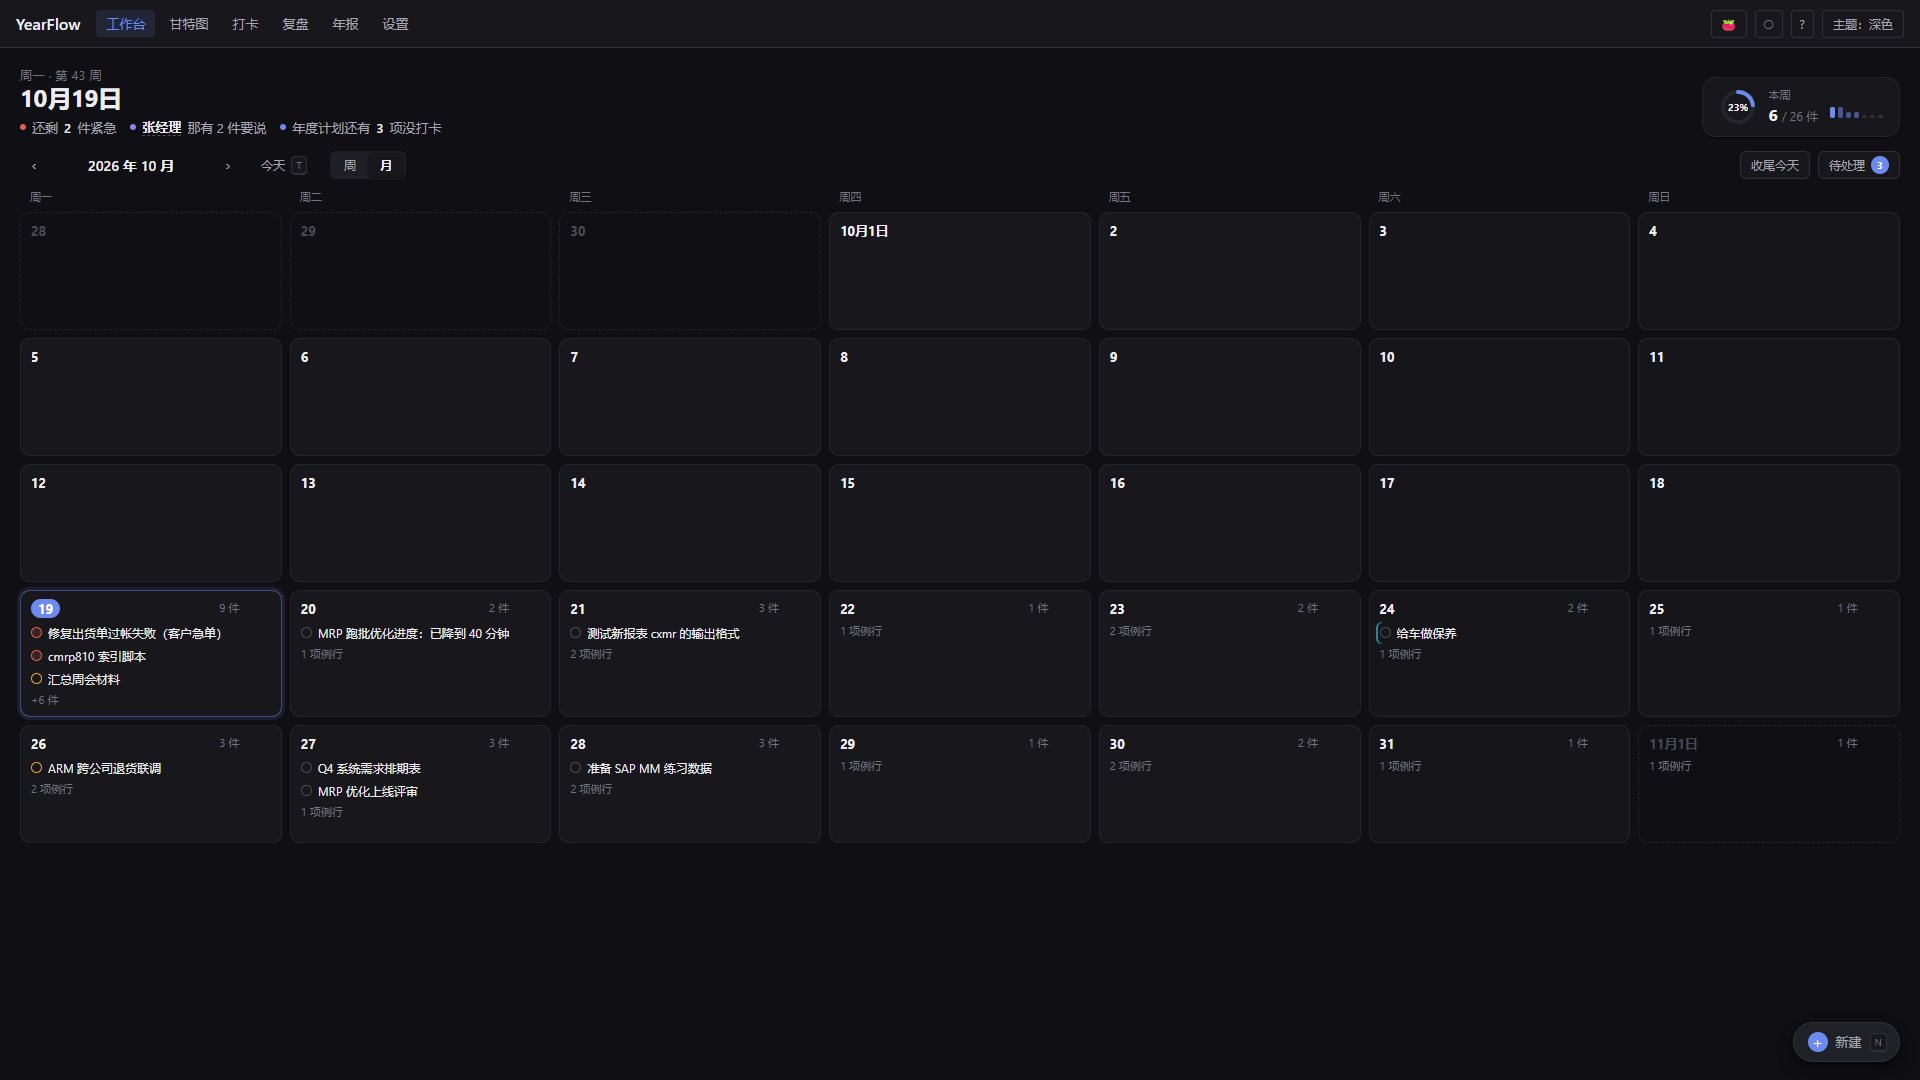
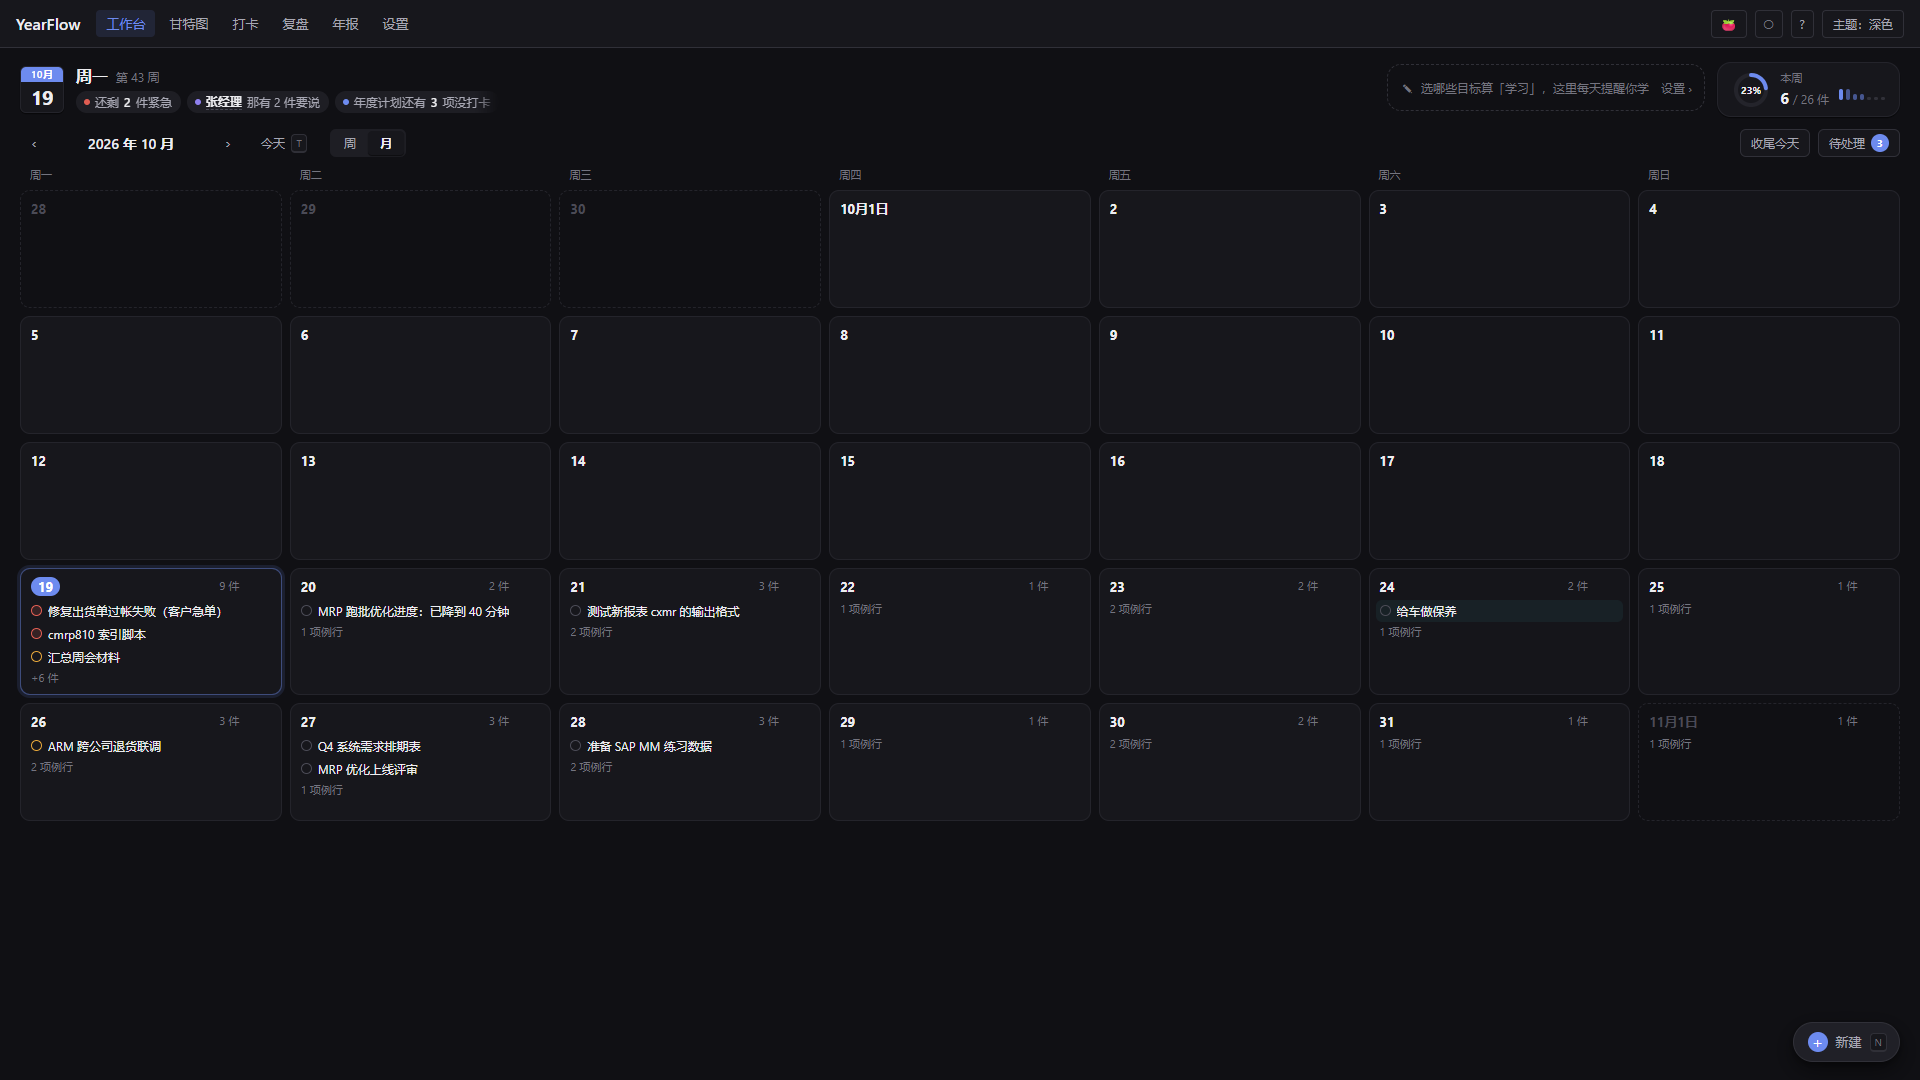
feat: 工作台要事可拖动设置——拖进要事区设为那天要事，拖回工作/生活区移出
- withFocus（纯函数 + 单测）与挪动/改范围合成一条撤销；守每天 3 件上限，满了提示
- 今天及以后每天都有要事区，空的拖动中才露出来；拖动提示带「要事」
- check-desk-v3 新增 9 项拖动断言

diff --git a/src/desk/useDeskDrag.ts b/src/desk/useDeskDrag.ts
@@ -1,6 +1,7 @@
 /**
  * 工作台拖拽：任意一行按住拖 3px 起拖 → 右下角浮出「挪到…」小月历；
- * 落点 = 日卡 / 日卡里的工作区或生活区（顺带改范围）/ 月历格（今天及以后）/ 小月历某天 / 「放进待处理」。
+ * 落点 = 日卡 / 日卡里的要事区（顺带设为那天要事）/ 工作区或生活区（顺带改范围，要事拖到这里 = 移出要事）/
+ * 月历格（今天及以后）/ 小月历某天 / 「放进待处理」。
  * 多选时拖任意一行带走全部选中。
  *
  * 性能约定（CLAUDE.md：拖拽中只改 transform）：拖动中**不触发 React 重绘** ——
@@ -10,7 +11,9 @@
 import { useEffect, type RefObject } from 'react';
 import { moveKeys } from '../store/deskActions';
 import { DRAG_THRESHOLD } from './constants';
-import { md, relDay, toastMove } from './format';
+import { md, relDay, toastMove, toastUndo } from './format';
+import { showToast } from '../lib/toast';
+import { MAX_FOCUS } from '../lib/derive/desk';
 import { parseKeys } from './keys';
 import { useDeskUi } from './uiStore';
 import type { WorkScope } from '../types/domain';
@@ -26,6 +29,8 @@ interface DragState {
   target?: string | null;
   /** 落在某天的工作/生活区里：顺带改范围 */
   scope?: WorkScope;
+  /** 落在要事区 = true；落在工作/生活区 = false（要事拖出来 = 移出要事） */
+  focus?: boolean;
   lastHot?: Element | null;
 }
 
@@ -55,9 +60,11 @@ export function useDeskDrag(rootRef: RefObject<HTMLDivElement | null>, today: st
       setTimeout(() => (swallowClick = false), 0);
       useDeskUi.getState().set({ dragging: false, mover: null });
       if (!apply || d.target === undefined) return;
-      const r = moveKeys(parseKeys(d.keys), d.target, d.target === null ? undefined : d.scope);
+      const r = moveKeys(parseKeys(d.keys), d.target, d.target === null ? undefined : d.scope, d.target === null ? undefined : d.focus);
       useDeskUi.getState().set({ sel: new Set() });
-      toastMove(d.target, today, r);
+      if (r.label) toastUndo(r.label);
+      else if (r.moved || !r.over) toastMove(d.target, today, r);
+      if (r.over) setTimeout(() => showToast(`每天最多 ${MAX_FOCUS} 件要事，有 ${r.over} 件没设上——先移出一件`), r.moved ? 400 : 0);
     };
 
     const onDown = (e: PointerEvent) => {
@@ -96,17 +103,23 @@ export function useDeskDrag(rootRef: RefObject<HTMLDivElement | null>, today: st
       const hit =
         el?.closest('[data-mv]') ??
         el?.closest('[data-mv-pending]') ??
+        el?.closest('.dk-focus[data-day]') ??
         el?.closest('.dk-zone[data-zone]') ??
         el?.closest('.dk-day[data-day], .dk-mc[data-day]') ??
         null;
       let target: string | null | undefined;
       let scope: WorkScope | undefined;
+      let focus: boolean | undefined;
       if (hit?.hasAttribute('data-mv')) target = hit.getAttribute('data-mv');
       else if (hit?.hasAttribute('data-mv-pending')) target = null;
       else if (hit) {
         const day = hit.getAttribute('data-day')!;
         target = day >= today ? day : undefined; // 过去的日子不能落
-        if (target !== undefined && hit.hasAttribute('data-zone')) scope = hit.getAttribute('data-zone') as WorkScope;
+        if (target !== undefined && hit.hasAttribute('data-zone')) {
+          scope = hit.getAttribute('data-zone') as WorkScope;
+          focus = false;
+        }
+        if (target !== undefined && hit.classList.contains('dk-focus')) focus = true;
       }
       const hot = target === undefined ? null : hit;
       if (hot !== drag.lastHot) {
@@ -116,10 +129,11 @@ export function useDeskDrag(rootRef: RefObject<HTMLDivElement | null>, today: st
       }
       drag.target = target;
       drag.scope = scope;
+      drag.focus = focus;
       const tip = document.querySelector('[data-mv-tip]');
       if (tip)
         tip.textContent =
-          target === undefined ? ' ' : target === null ? '→ 放进待处理' : `→ ${relDay(target, today)} · ${md(target)}${scope ? ` · ${scope === 'life' ? '生活' : '工作'}` : ''}`;
+          target === undefined ? ' ' : target === null ? '→ 放进待处理' : `→ ${relDay(target, today)} · ${md(target)}${focus ? ' · 要事' : scope ? ` · ${scope === 'life' ? '生活' : '工作'}` : ''}`;
     };
 
     const onUp = () => {

diff --git a/src/store/deskActions.ts b/src/store/deskActions.ts
@@ -19,6 +19,7 @@ import {
   planSkipOccurrence,
   planToggleItem,
   planToggleOccurrence,
+  withFocus,
   withScope,
   type DeskKey,
 } from './deskPlan';
@@ -194,7 +195,13 @@ export function markPersonSaid(person: string): void {
  * 一次挪动 = 一条撤销记录。返回 pastDue（挪到截止日之后的件数，UI 提示用）与实际挪动数。
  * scope = 拖到了某天的工作/生活区：顺带改范围（同一天换区 = 只改范围，moved 也算上）。
  */
-export function moveKeys(keys: DeskKey[], to: MoveHow | string | null, scope?: WorkScope): { moved: number; pastDue: number } {
+export function moveKeys(
+  keys: DeskKey[],
+  to: MoveHow | string | null,
+  scope?: WorkScope,
+  /** 拖进某天的要事区 = true（设为那天要事）；拖到工作/生活区 = false（移出要事）；其他落点不传 */
+  focus?: boolean,
+): { moved: number; pastDue: number; over: number; label?: string } {
   const s = useStore.getState();
   const today = todayStr();
   const isHow = to === 'tomorrow' || to === 'nextMonday' || to === 'sameDayNextWeek';
@@ -206,15 +213,28 @@ export function moveKeys(keys: DeskKey[], to: MoveHow | string | null, scope?: W
   const stamp = nowIso();
   const planned = planMove(s, keys, target, stamp);
   const { pastDue } = planned;
-  const changes = scope ? withScope(s, keys, planned.changes, scope, stamp) : planned.changes;
+  let changes = scope ? withScope(s, keys, planned.changes, scope, stamp) : planned.changes;
+  let over = 0;
+  if (focus !== undefined && to !== null && !isHow) {
+    const r = withFocus(s, keys, changes, focus ? to : null, stamp);
+    changes = r.changes;
+    over = r.over;
+    const newly = changes.filter((c) => c.table === 'workItems' && c.type === 'put' && c.after.focusOn === to && c.before?.focusOn !== to).length;
+    if (focus && newly) {
+      const label = planned.moved ? `挪到 ${to.slice(5).replace('-', '/')} 并设为要事：${newly} 件` : `设为要事：${newly} 件`;
+      s.execute(label, changes);
+      return { moved: changes.length, pastDue, over, label };
+    }
+  }
   const moved = changes.length;
-  if (scope && planned.moved === 0 && changes.length > 0) {
-    s.execute(`改为${scope === 'life' ? '生活' : '工作'}：${changes.length} 件`, changes);
-    return { moved: changes.length, pastDue: 0 };
+  if (planned.moved === 0 && changes.length > 0 && (scope || focus === false)) {
+    const label = scope && changes.some((c) => c.type === 'put' && c.table === 'workItems' && c.before?.scope !== c.after.scope) ? `改为${scope === 'life' ? '生活' : '工作'}：${changes.length} 件` : `移出要事：${changes.length} 件`;
+    s.execute(label, changes);
+    return { moved: changes.length, pastDue: 0, over, label };
   }
   const label = to === null ? `放进待处理：${moved} 件` : isHow ? `${{ tomorrow: '挪到明天', nextMonday: '挪到下周一', sameDayNextWeek: '挪到下周同一天' }[to]}：${moved} 件` : `挪到 ${to.slice(5).replace('-', '/')}：${moved} 件`;
   if (changes.length) s.execute(label, changes);
-  return { moved, pastDue };
+  return { moved, pastDue, over };
 }
 
 // ── 例行 ─────────────────────────────────────────────────────────────────

diff --git a/src/store/deskPlan.ts b/src/store/deskPlan.ts
@@ -130,6 +130,38 @@ export function withScope(s: DeskState, keys: DeskKey[], changes: Change[], scop
   return out;
 }
 
+/**
+ * 在挪动（及改范围）的基础上顺带设 / 移出要事：拖进某天的要事区 = 挪到那天 + 设为那天的要事；
+ * 把要事拖到工作/生活区 = 移出要事。只认事项（例行不能当要事）；设上时守每天 MAX_FOCUS 的上限，
+ * 被拖的这几件原本就是那天要事的不重复占位。返回合并后的变更与没设上的件数。
+ */
+export function withFocus(s: DeskState, keys: DeskKey[], changes: Change[], date: string | null, stamp: string): { changes: Change[]; over: number } {
+  const out = [...changes];
+  const ids = keys.flatMap((k) => (k.type === 'item' && s.workItems[k.id] ? [k.id] : []));
+  const dragged = new Set(ids);
+  let room = date ? MAX_FOCUS - Object.values(s.workItems).filter((i) => !dragged.has(i.id) && isFocusOn(i, date)).length : 0;
+  let over = 0;
+  for (const id of ids) {
+    const at = out.findIndex((c) => c.table === 'workItems' && c.type === 'put' && c.after.id === id);
+    const c = out[at];
+    const cur = c && c.table === 'workItems' && c.type === 'put' ? c.after : s.workItems[id];
+    let focusOn: string | undefined;
+    if (date) {
+      if (room <= 0) {
+        over++;
+        continue;
+      }
+      room--;
+      if (cur.focusOn === date) continue;
+      focusOn = date;
+    } else if (!cur.focusOn) continue;
+    const next: WorkItem = { ...cur, focusOn, updatedAt: stamp };
+    if (c && c.table === 'workItems' && c.type === 'put') out[at] = { ...c, after: next };
+    else out.push({ table: 'workItems', type: 'put', before: s.workItems[id], after: next });
+  }
+  return { changes: out, over };
+}
+
 /** 某人的未完成跟进全部标为已说（人物卡「全部标为已说」） */
 export function planMarkPersonSaid(s: DeskState, person: string, stamp: string): Change[] {
   const ids = Object.values(s.workItems)

diff --git a/src/store/deskPlan.test.ts b/src/store/deskPlan.test.ts
@@ -11,6 +11,7 @@ import {
   planToggleItem,
   planToggleOccurrence,
   planSetFocus,
+  withFocus,
   withScope,
 } from './deskPlan';
 import { invertChange, type Change } from './types';
@@ -212,5 +213,22 @@ describe('v3：要事上限、拖进另一区改范围', () => {
     expect(out).toHaveLength(2);
     expect(after(out[0])).toMatchObject({ id: 'a', date: '2026-10-19', scope: 'life' });
     expect(after(out[1])).toMatchObject({ id: 'c', date: D, scope: 'life' });
+  });
+
+  it('拖进要事区：挪动 + 设要事合成一条；守每天上限；拖出 = 移出要事；例行不管', () => {
+    const N = '2026-10-19';
+    const s = state({ items: [wi('a', { date: D }), wi('b', { date: N }), wi('f1', { date: N, focusOn: N }), wi('f2', { date: N, focusOn: N }), wi('x', { date: D })] });
+    const keys = [{ type: 'item' as const, id: 'a' }, { type: 'item' as const, id: 'b' }, { type: 'routine' as const, routineId: 'r', origDate: D }];
+    const moved = planMove(s, [keys[0]], () => N, NOW).changes;
+    const r = withFocus(s, keys, moved, N, NOW);
+    expect(r.over).toBe(1); // 那天已有 2 件，只剩 1 个位子
+    expect(r.changes).toHaveLength(1);
+    expect(after(r.changes[0])).toMatchObject({ id: 'a', date: N, focusOn: N });
+    // 已是那天要事的在那天要事区里拖动：不占第二个位子、没有变更
+    expect(withFocus(s, [{ type: 'item', id: 'f1' }], [], N, NOW)).toEqual({ changes: [], over: 0 });
+    // 拖出要事区：移出；本来就不是要事的不动
+    const out = withFocus(s, [{ type: 'item', id: 'f1' }, { type: 'item', id: 'x' }], [], null, NOW);
+    expect(out.changes).toHaveLength(1);
+    expect(after(out.changes[0])).toMatchObject({ id: 'f1', focusOn: undefined });
   });
 });

diff --git a/src/desk/DayCard.tsx b/src/desk/DayCard.tsx
@@ -149,8 +149,9 @@ export function DayCard({ data, today, plan, planHidden, rail }: { data: DayData
         </div>
       </div>
       <div className="dk-db">
-        {(focus.length > 0 || canPickFocus) && (
-          <div className="dk-focus" data-zone-focus={date}>
+        {/* 今天及以后每天都有要事区（空的平时藏着，拖动中露出来当落点：拖进来 = 设为那天要事） */}
+        {(focus.length > 0 || canPickFocus || !past) && (
+          <div className={`dk-focus${focus.length > 0 || canPickFocus ? '' : ' empty'}`} data-zone-focus={date} data-day={past ? undefined : date}>
             <div className="dk-focus-h">
               <span>要事</span>
               {focus.length > 0 && (
@@ -172,6 +173,7 @@ export function DayCard({ data, today, plan, planHidden, rail }: { data: DayData
                   {focus.length ? '再挑' : `挑今天最要紧的 ${MAX_FOCUS} 件`}
                 </button>
               )}
+              {focus.length === 0 && <span className="dk-focus-hint">拖到这里设为要事</span>}
             </div>
             {focus.map((i) => (
               <ItemRow key={i.id} item={i} today={today} rolled={i.date !== date} inFocus compact={past} />

diff --git a/src/desk/desk.css b/src/desk/desk.css
@@ -1944,6 +1944,29 @@
   color: var(--accent);
   background: var(--accent-soft);
 }
+.dk-focus.empty {
+  display: none;
+}
+.dk-focus-hint {
+  display: none;
+  font-weight: 400;
+  color: var(--text-tertiary);
+}
+/* 拖动中：空的要事区也露出来当落点；有位子的要事区底下留一条落点空隙 */
+.dk.dragging .dk-day:not(.past) .dk-focus.empty {
+  display: block;
+  padding-bottom: 6px;
+}
+.dk.dragging .dk-focus-pick {
+  display: none;
+}
+.dk.dragging .dk-focus-hint {
+  display: inline;
+}
+.dk-focus.drop {
+  background: color-mix(in srgb, var(--accent) 12%, transparent);
+  box-shadow: inset 0 0 0 1px var(--accent);
+}
 .dk-focus .dk-row .dk-t {
   font-size: var(--font-14);
   font-weight: 550;

diff --git a/docs/DESK_SPEC.md b/docs/DESK_SPEC.md
@@ -8,6 +8,7 @@
 > **v3 拍板（2026-10-19，负责人反馈一轮）**：日卡自上而下 = 要事 → 学习（精简两行）→ 工作区 → 生活区 → 年度计划（底部、可收起、可选显示哪些）· 工作/生活用**非文字**区分（生活区 = 青色左条 + 极淡底；月历/抽屉里的生活行带同色左条）· 做完的**就地显示**不折叠（只有「不做了」收在卡底）· 周末默认收成窄条（工具条与窄条可展开，记在本机）· 标题自动换行 · 新建卡可直接点选 工作/生活 · 紧急度 · 重要 · 要事 · 哪天 · 新增三项方法：**要事**（Ivy Lee，每天 ≤3 件）、**重要**（艾森豪威尔第二轴）、**下班收尾**（Cal Newport shutdown）。细则见 §十一。
 > **v3.1（2026-10-19，负责人反馈）**：学习卡挪到**头部**，在统计卡（本周 / 学习 / 里程碑）左边、同高并排，周历月历都看得到；日卡里不再放学习卡，今日脉搏里也不再重复「还没学」。卡片一律**不要左色条**：生活区、生活行只用极淡生活色底区分；学习卡只用淡淡的目标色底。头部左侧改为日历小牌（月份条 + 大号日期）+ 星期 / 第几周 / 今天进度细条 + 一排小药丸。窄窗时学习卡 + 统计卡整体折到下一行。
 > **v3.2（2026-10-19）**：头部**一行到底、不折行**（≤100px）：日历小牌 + 星期/周次 + 单行脉搏药丸（放不下淡出）｜学习卡（先收窄、次要操作悬停才亮）｜统计卡。去掉头部的今天进度条。
+> **v3.3（2026-10-19）**：要事可**拖动设置**——拖进某天要事区 = 设为那天要事（别的日子顺带挪过去，一步撤销）；拖回工作/生活区 = 移出；每天上限 3 件。空要事区平时藏着，拖动中露出。
 > 版式以 `docs/desk/w0-prototype.html`（W0 原型 v2）为准；v3 的改动以 §十一 为准。
 
 ---

diff --git a/docs/PROGRESS.md b/docs/PROGRESS.md
@@ -1038,3 +1038,12 @@ Document PiP 与主页面**同一个 JS realm**，所以旧实现是 `createPort
 - 新增 `scripts/check-desk-hero.mjs`：1280 / 1440 / 1536 / 1920 × 深浅，断言一行、≤100px、无横向溢出、学习卡与统计卡同高、统计卡三块都在；截图 `docs/screenshots/desk/hero-*.png`。
 
 **验收**：`tsc -b` + `oxlint` 干净；`check-desk-hero` / `check-desk-v3` / `capture-desk-study` 全过；`electron:build` 已重建。
+
+## 2026-10-19 工作台 v3.3：拖动设要事
+
+负责人：要事能不能拖动设置。
+
+- 拖进某天的「要事」区 = 设为那天要事（别的日子顺带挪过去，挪动 + 设要事是**一步撤销**）；把要事拖回工作/生活区 = 移出要事。守每天 3 件上限，满了提示、不设上。今天及以后每天都有要事区，空的平时藏着，拖动中露出来（写「拖到这里设为要事」）。拖动提示带「· 要事」，落点高亮。
+- 纯函数 `withFocus`（deskPlan.ts，和 `withScope` 同一套合并方式）+ 单测；`moveKeys` 多一个 focus 参数；拖动仍是零 React 重绘。
+
+**验收**：`tsc -b` + `oxlint` 干净；vitest **330 全绿**（新增：挪动 + 设要事合成一条、上限、已是要事不重复占位、拖出移出、例行不管）。`check-desk-v3.mjs` 新增 9 项全过（高亮 + 提示、设上、拖回移出、周五空要事区拖动中露出、挪到周五并设要事、不拖时藏起、Ctrl+Z 一步撤回、满 3 件不设上并提示、撤回）；回归 `check-desk-hero` / `capture-desk-study` / `check-desk-plan` / `capture-desk` 全过；`electron:build` 后 `check-desk-v3-desktop` 全过。截图 `v3-drag-focus-dark.png` 过目。
